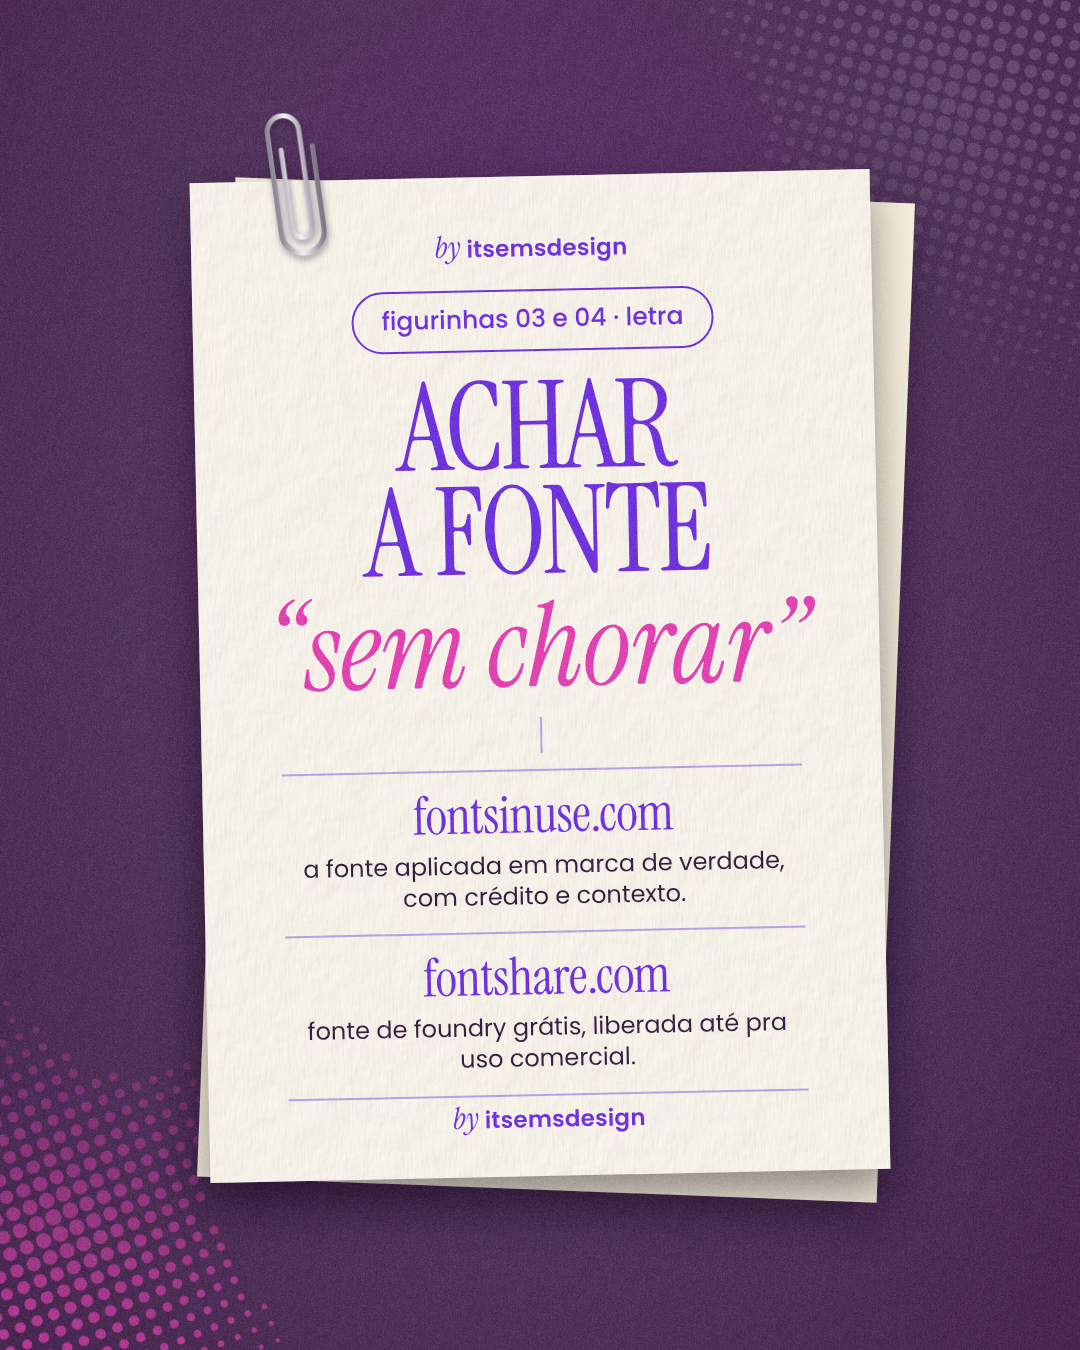
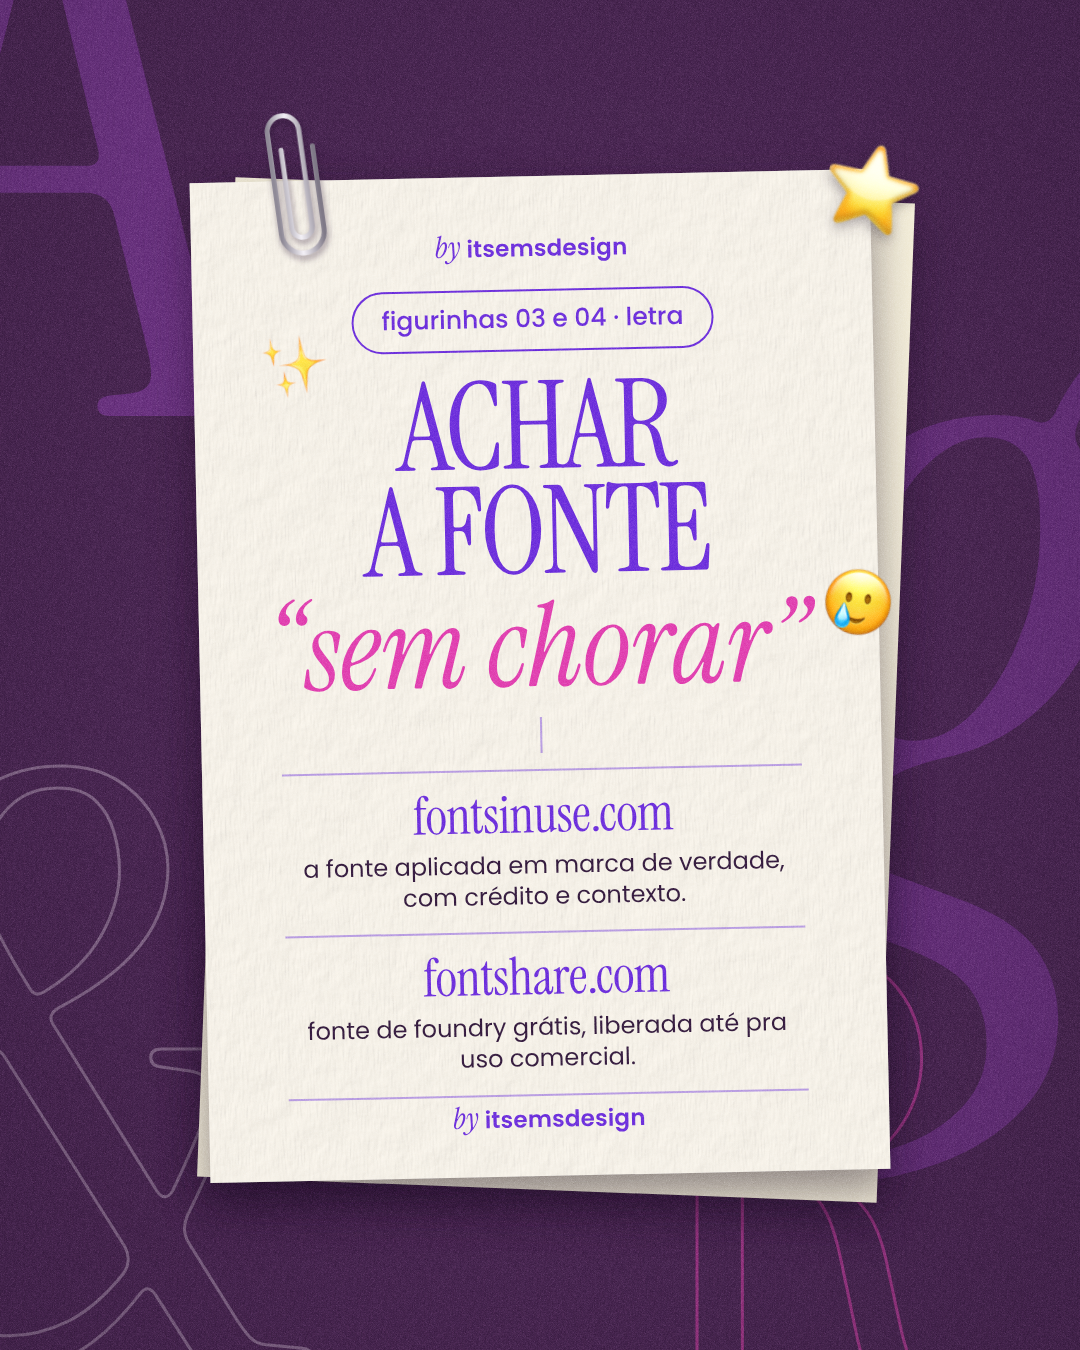
EMS figurinhas raras v4: página 3 com fundo de letras gigantes e emojis do iPhone
Claude-Session: https://claude.ai/code/session_01CmCiKB9wFc4qQovptupnZT

diff --git a/Emi/ems-album-figurinhas/projeto/carrossel.html b/Emi/ems-album-figurinhas/projeto/carrossel.html
@@ -162,8 +162,6 @@ const FOLHA = `<div class="abs" style="inset:0;background:var(--ivory-2)"></div>
   const CLIPE = `<svg class="abs" style="left:${X3 + 70}px;top:${Y3 - 66}px;width:52px;transform:rotate(-8deg);filter:drop-shadow(1px 4px 3px rgba(42,20,51,.45));z-index:3" viewBox="0 0 46 130"><defs><linearGradient id="clp" x1="0" x2="1"><stop offset="0" stop-color="#8f8a97"/><stop offset=".45" stop-color="#f4f1f7"/><stop offset="1" stop-color="#7f7987"/></linearGradient></defs>
     <path d="M14 34 V104 a9 9 0 0 0 18 0 V18 a14 14 0 0 0 -28 0 V108 a19 19 0 0 0 38 0 V34" fill="none" stroke="url(#clp)" stroke-width="4.4" stroke-linecap="round"/></svg>`;
   lamina(2, `
-    <img class="abs" src="${estrelaReticula(780, css('lavanda'))}" style="left:560px;top:-280px;width:780px;opacity:.3;transform:rotate(14deg);-webkit-mask-image:linear-gradient(200deg,#000 20%,transparent 85%);mask-image:linear-gradient(200deg,#000 20%,transparent 85%)">
-    <img class="abs" src="${estrelaReticula(640, css('pink'))}" style="left:-260px;top:900px;width:640px;opacity:.75;transform:rotate(-22deg);-webkit-mask-image:linear-gradient(30deg,#000 30%,transparent 90%);mask-image:linear-gradient(30deg,#000 30%,transparent 90%)">
     <div class="abs" style="left:${X3 + 16}px;top:${Y3 + 14}px;width:${W3}px;height:1000px;background:#f3ecd6;transform:rotate(2.2deg);box-shadow:0 18px 40px rgba(20,8,26,.45)"></div>
     <div class="abs" style="left:${X3}px;top:${Y3}px;width:${W3}px;height:1000px;background:#fffaf0;transform:rotate(-1.2deg);box-shadow:0 22px 44px rgba(20,8,26,.5);text-align:center">
       <div class="abs" style="inset:0;background-image:var(--tx-relevo);background-size:620px;mix-blend-mode:multiply;opacity:.3"></div>
@@ -177,9 +175,16 @@ const FOLHA = `<div class="abs" style="inset:0;background:var(--ivory-2)"></div>
       <div class="abs" style="left:0;right:0;bottom:40px">${by}</div>
     </div>
     ${CLIPE}
-  `, `<div class="abs" style="inset:0;background:radial-gradient(ellipse at 50% 40%, var(--plum) 0%, var(--creative-purple) 55%, var(--ameixa) 100%)"></div>
-      <div class="abs" style="inset:0;background-image:var(--tx-relevo);background-size:620px;mix-blend-mode:multiply;opacity:.5"></div>
-      <div class="abs" style="inset:0;background-image:var(--tx-fibras);background-size:460px;mix-blend-mode:multiply;opacity:.35"></div>`, 'grao-forte');
+    <img class="abs" src="emoji/2728.png" style="left:262px;top:332px;width:66px;transform:rotate(-8deg)">
+    <img class="abs" src="emoji/1f972.png" style="left:822px;top:566px;width:72px;transform:rotate(8deg)">
+    <img class="abs" src="emoji/2b50.png" style="left:826px;top:142px;width:92px;transform:rotate(14deg);filter:drop-shadow(0 6px 6px rgba(20,8,26,.35))">
+  `, `<div class="abs" style="inset:0;background:var(--ameixa)"></div>
+      <div class="abs" style="left:-150px;top:-250px;font-family:var(--serif);font-size:900px;line-height:.8;color:#62287a">A</div>
+      <div class="abs" style="left:720px;top:180px;font-family:var(--serif);font-style:italic;font-size:1050px;line-height:.8;color:#5a2470">g</div>
+      <div class="abs" style="left:-170px;top:760px;font-family:var(--serif);font-size:820px;line-height:.8;color:transparent;-webkit-text-stroke:3px rgba(192,165,196,.45)">&amp;</div>
+      <div class="abs" style="left:640px;top:930px;font-family:var(--serif);font-size:640px;line-height:.8;color:transparent;-webkit-text-stroke:3px rgba(221,52,168,.55)">R</div>
+      <div class="abs" style="inset:0;background:radial-gradient(ellipse at 50% 45%, transparent 45%, rgba(20,8,26,.22))"></div>
+      <div class="abs" style="inset:0;background-image:var(--tx-fibras);background-size:460px;mix-blend-mode:multiply;opacity:.3"></div>`, 'grao-forte');
 })();
 
 /* lupa de acrílico em cima de "algoritmo", ampliando a palavra (posição medida depois das fontes) */

diff --git a/Emi/ems-album-figurinhas/projeto/scripts/emoji-iphone.js b/Emi/ems-album-figurinhas/projeto/scripts/emoji-iphone.js
@@ -1,0 +1,53 @@
+// Emoji do iPhone (Apple) em arte feita por código.
+// O Chromium deste ambiente só tem a fonte Noto Color Emoji (desenho do Android/Google).
+// Este script troca cada emoji do texto da página por <img> do desenho da Apple,
+// do pacote emoji-datasource-apple@16.0.0 (64px, servido pelo jsDelivr).
+//
+// Uso no HTML da arte, antes do script que marca window.READY:
+//   <script src="caminho/para/emoji-iphone.js"></script>
+//   ... await window.emojiIphone;  window.READY = true;
+// Tamanho: o emoji ocupa 1em da letra em volta. Ajuste com CSS em img.emoji-iphone.
+// A imagem tem 64px: acima de ~64px na arte final, amplie antes (Topaz) e use arquivo local.
+(function () {
+  const CDN = 'https://cdn.jsdelivr.net/npm/emoji-datasource-apple@16.0.0/img/apple/64/';
+  const RE = /(?:[\u{1F1E6}-\u{1F1FF}]{2}|[0-9#*]?⃣|(?![©®™](?!))\p{Extended_Pictographic}(?:|[\u{1F3FB}-\u{1F3FF}])*(?:\p{Extended_Pictographic}(?:|[\u{1F3FB}-\u{1F3FF}])*)*)/gu;
+  const cps = (s) => [...s].map((c) => c.codePointAt(0).toString(16).padStart(4, '0'));
+  // o nome do arquivo às vezes leva o fe0f e às vezes não: tenta as variações
+  const nomes = (e) => {
+    const a = cps(e), sem = a.filter((c) => c !== 'fe0f');
+    return [...new Set([a.join('-'), sem.join('-'), [sem[0], 'fe0f', ...sem.slice(1)].join('-')])];
+  };
+  const carrega = (img, lista) => new Promise((ok) => {
+    let i = 0;
+    img.onload = () => ok(true);
+    img.onerror = () => (++i < lista.length ? (img.src = CDN + lista[i] + '.png') : (console.warn('emoji sem desenho Apple:', img.alt), img.replaceWith(img.alt), ok(false)));
+    img.src = CDN + lista[0] + '.png';
+  });
+  window.emojiIphone = (async () => {
+    if (document.readyState === 'loading') await new Promise((r) => document.addEventListener('DOMContentLoaded', r));
+    const st = document.createElement('style');
+    st.textContent = 'img.emoji-iphone{height:1em;width:1em;vertical-align:-0.12em;display:inline-block;object-fit:contain}';
+    document.head.appendChild(st);
+    const w = document.createTreeWalker(document.body, NodeFilter.SHOW_TEXT, {
+      acceptNode: (n) => (n.parentElement.closest('script,style,textarea') ? NodeFilter.FILTER_REJECT : NodeFilter.FILTER_ACCEPT),
+    });
+    const alvos = [];
+    for (let n; (n = w.nextNode());) if (RE.test(n.data)) alvos.push(n);
+    const espera = [];
+    for (const n of alvos) {
+      const f = document.createDocumentFragment();
+      let k = 0;
+      n.data.replace(RE, (e, pos) => {
+        if (pos > k) f.appendChild(document.createTextNode(n.data.slice(k, pos)));
+        const img = document.createElement('img');
+        img.className = 'emoji-iphone'; img.alt = e; img.draggable = false;
+        espera.push(carrega(img, nomes(e)));
+        f.appendChild(img);
+        k = pos + e.length;
+      });
+      if (k < n.data.length) f.appendChild(document.createTextNode(n.data.slice(k)));
+      n.replaceWith(f);
+    }
+    return Promise.all(espera);
+  })();
+})();
